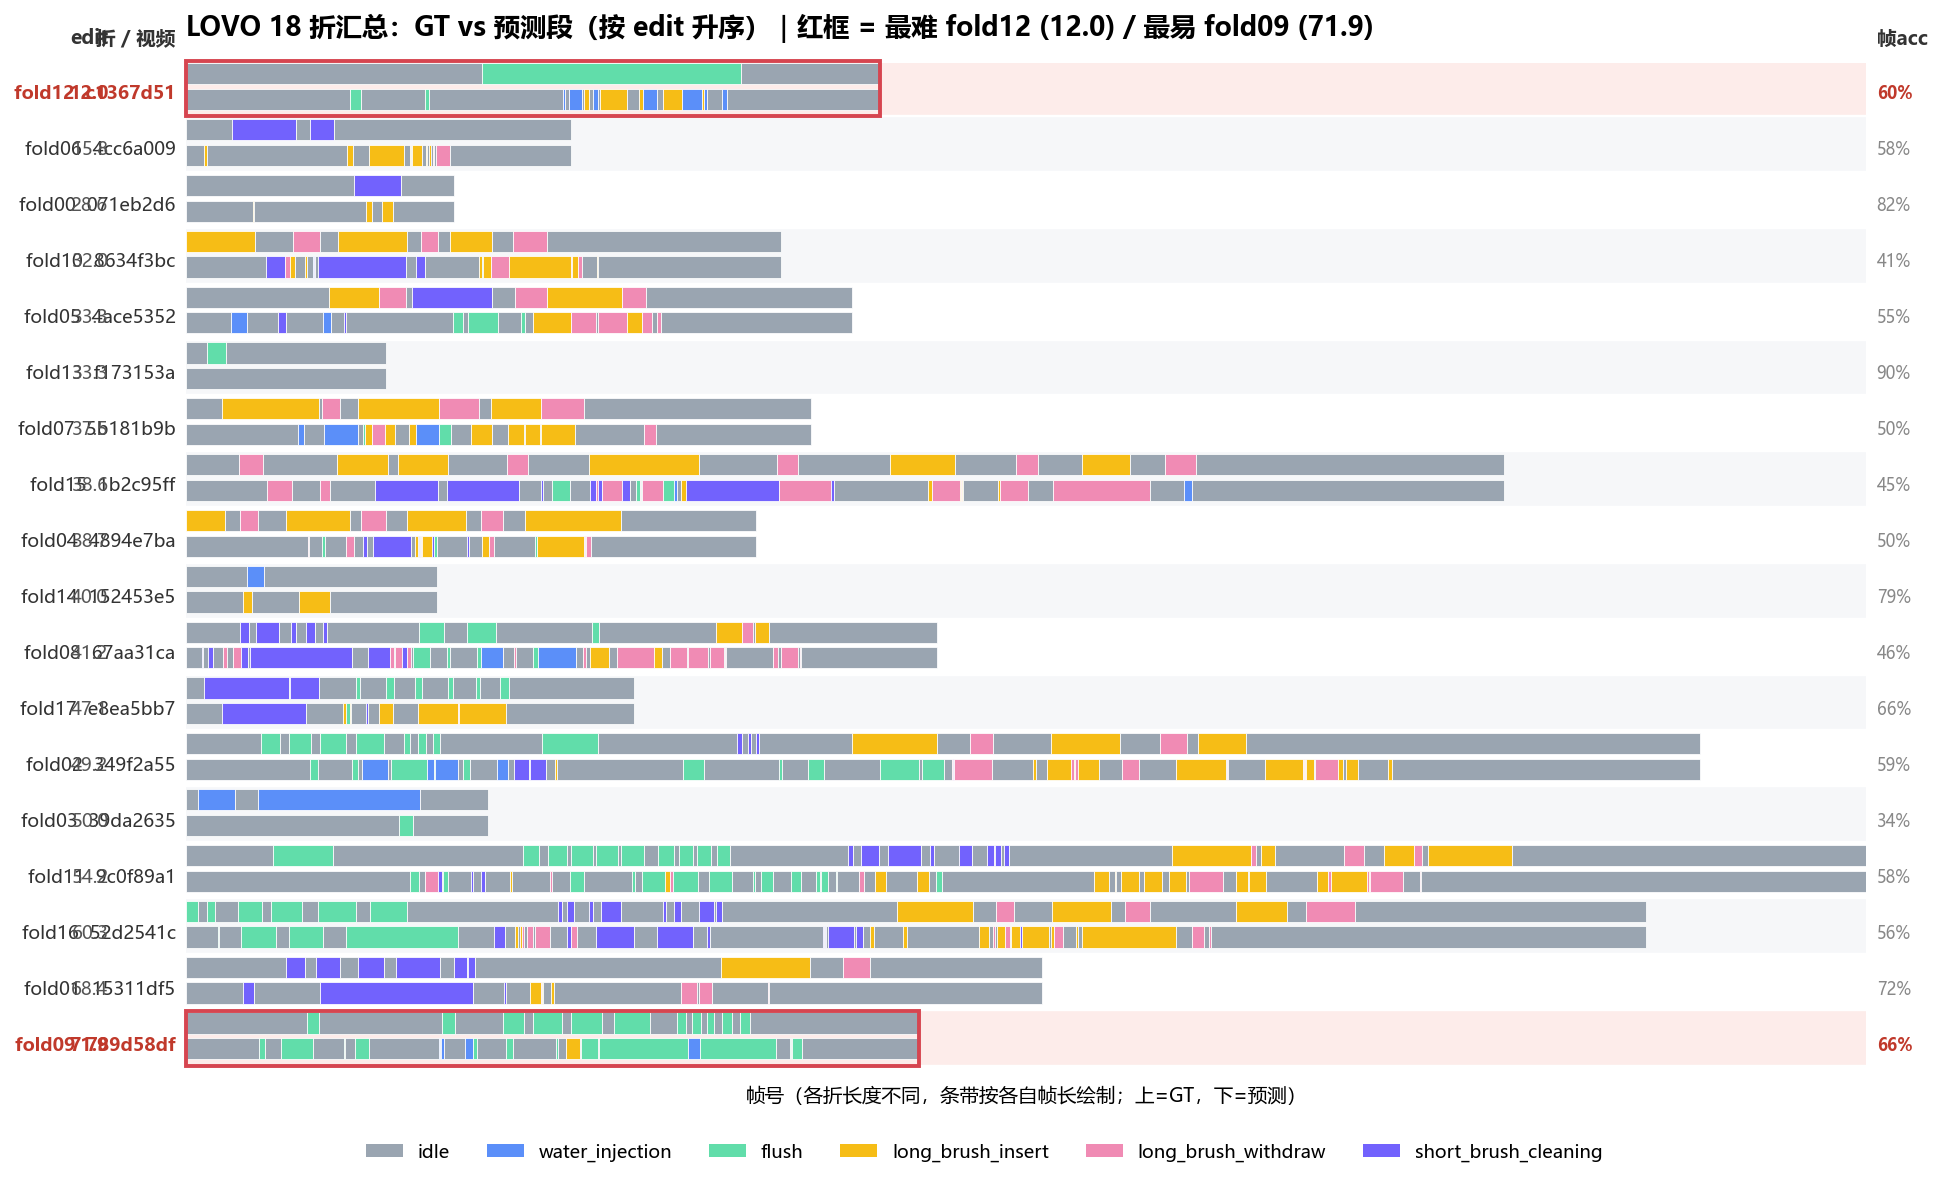
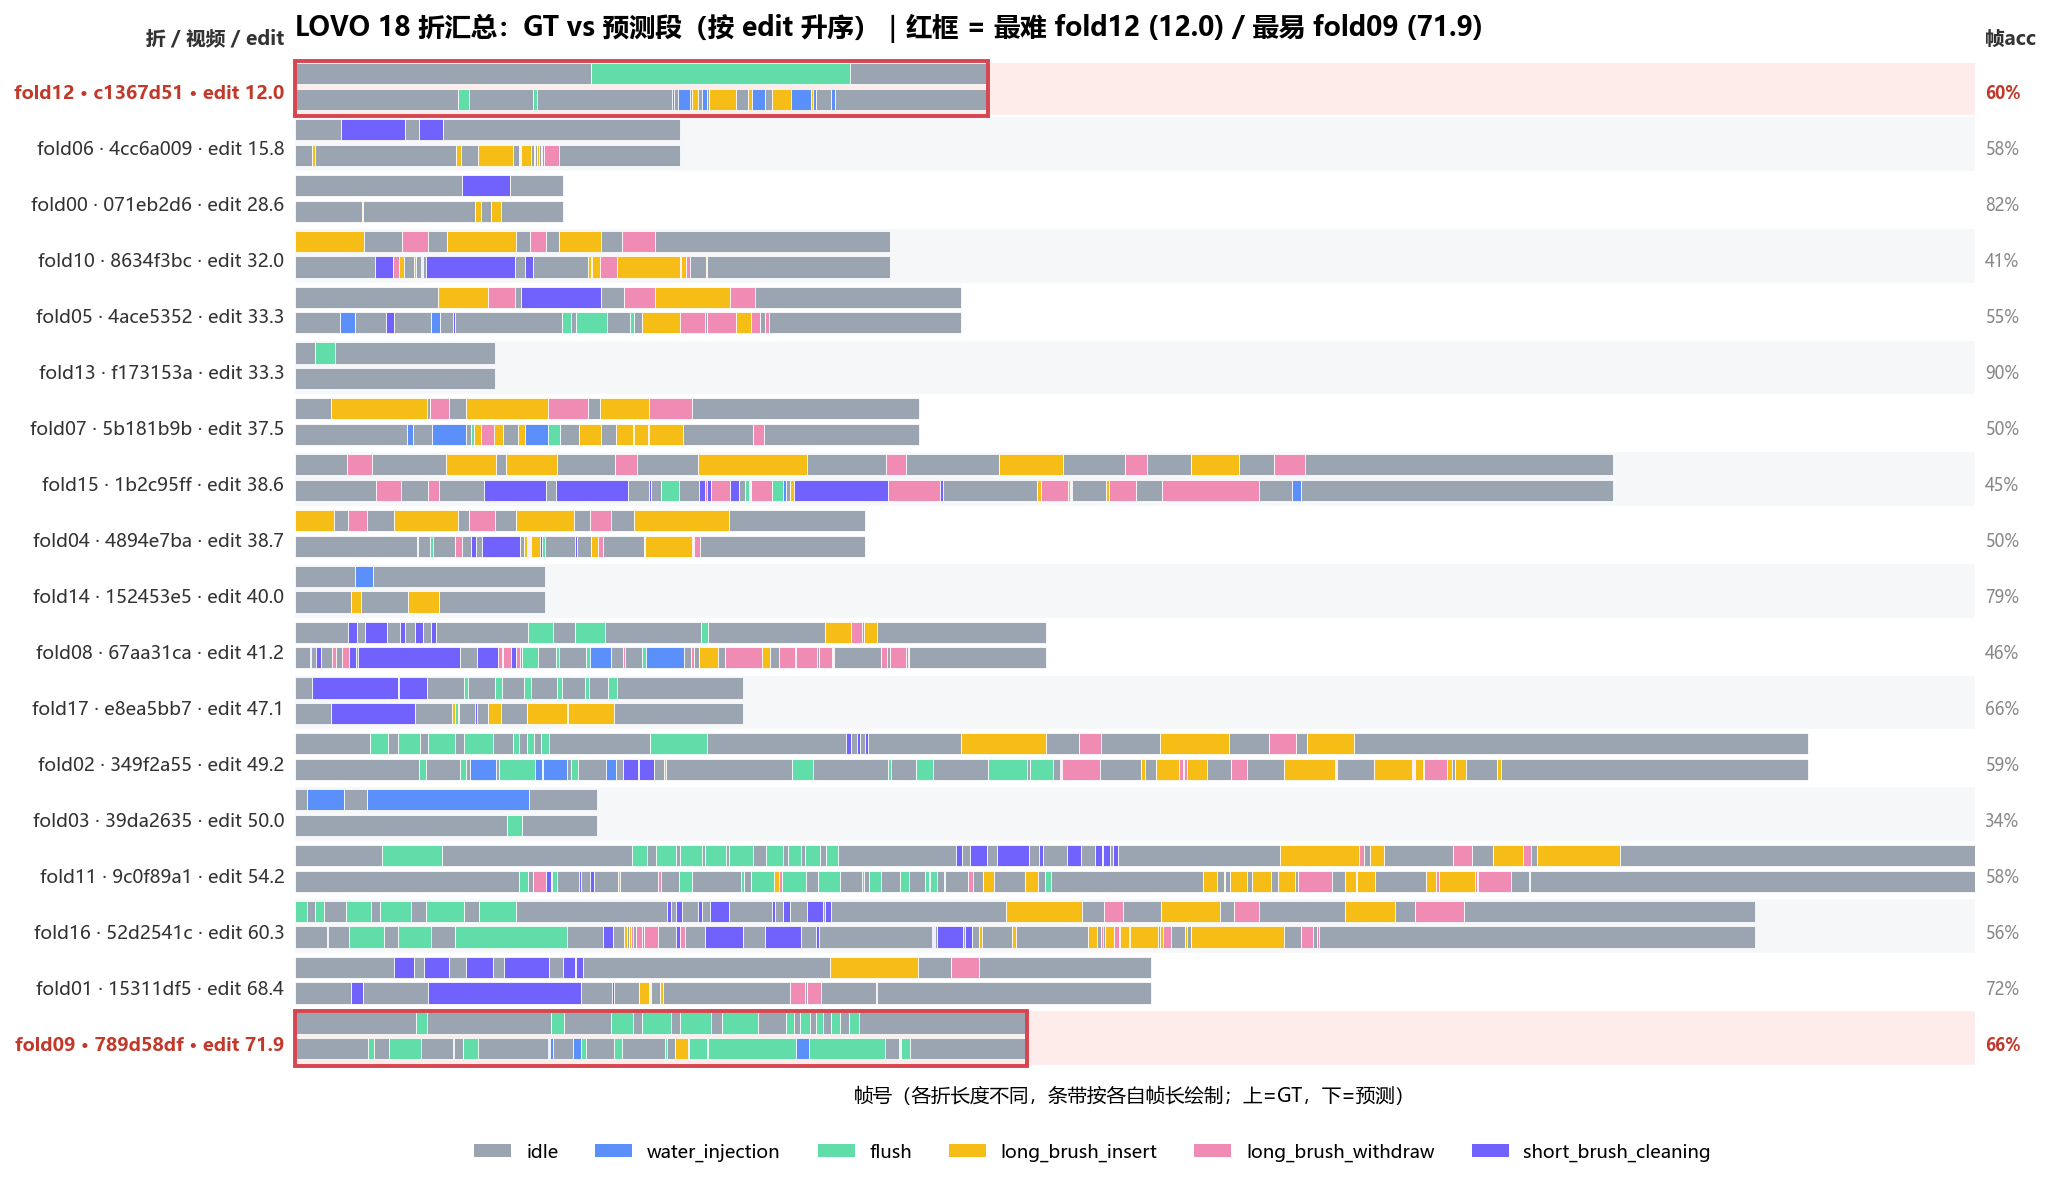
fix(assets): fig3 左栏文字重叠——折名/视频ID/edit 合并为单列右对齐，消除长名与数字列挤压

diff --git a/docs/assets/feature-lab/scripts/lovo_summary_replot.py b/docs/assets/feature-lab/scripts/lovo_summary_replot.py
@@ -68,15 +68,14 @@ for i, (fold, vid8, ed, gt, pred, names, acc) in enumerate(records):
     hl = fold in ("fold12", "fold09")
     # data y -> axes 分数
     fy = 0.10 + 0.80 * ((y + 0.45) / N)
-    fig.text(0.145, fy, f"{fold}  {vid8}", ha="right", va="center", fontsize=9.5,
-             color="#c0392b" if hl else "#333", fontweight="bold" if hl else "normal")
-    fig.text(0.113, fy, f"{ed:.1f}", ha="right", va="center", fontsize=9.5,
-             color="#c0392b" if hl else "#555", fontweight="bold" if hl else "normal")
+    # 单列右对齐（折名+视频ID+edit 合并为一个字符串），从根上杜绝列间重叠
+    fig.text(0.145, fy, f"{fold} · {vid8} · edit {ed:.1f}", ha="right", va="center",
+             fontsize=9.5, color="#c0392b" if hl else "#333",
+             fontweight="bold" if hl else "normal")
     fig.text(0.955, fy, f"{acc*100:.0f}%", ha="left", va="center", fontsize=8.5,
              color="#c0392b" if hl else "#888", fontweight="bold" if hl else "normal")
 
-fig.text(0.145, 0.915, "折 / 视频", ha="right", fontsize=10, fontweight="bold", color="#333")
-fig.text(0.113, 0.915, "edit", ha="right", fontsize=10, fontweight="bold", color="#333")
+fig.text(0.145, 0.915, "折 / 视频 / edit", ha="right", fontsize=10, fontweight="bold", color="#333")
 fig.text(0.955, 0.915, "帧acc", ha="left", fontsize=10, fontweight="bold", color="#333")
 
 ax.set_xlim(0, maxT); ax.set_ylim(-0.15, N - 0.1)
